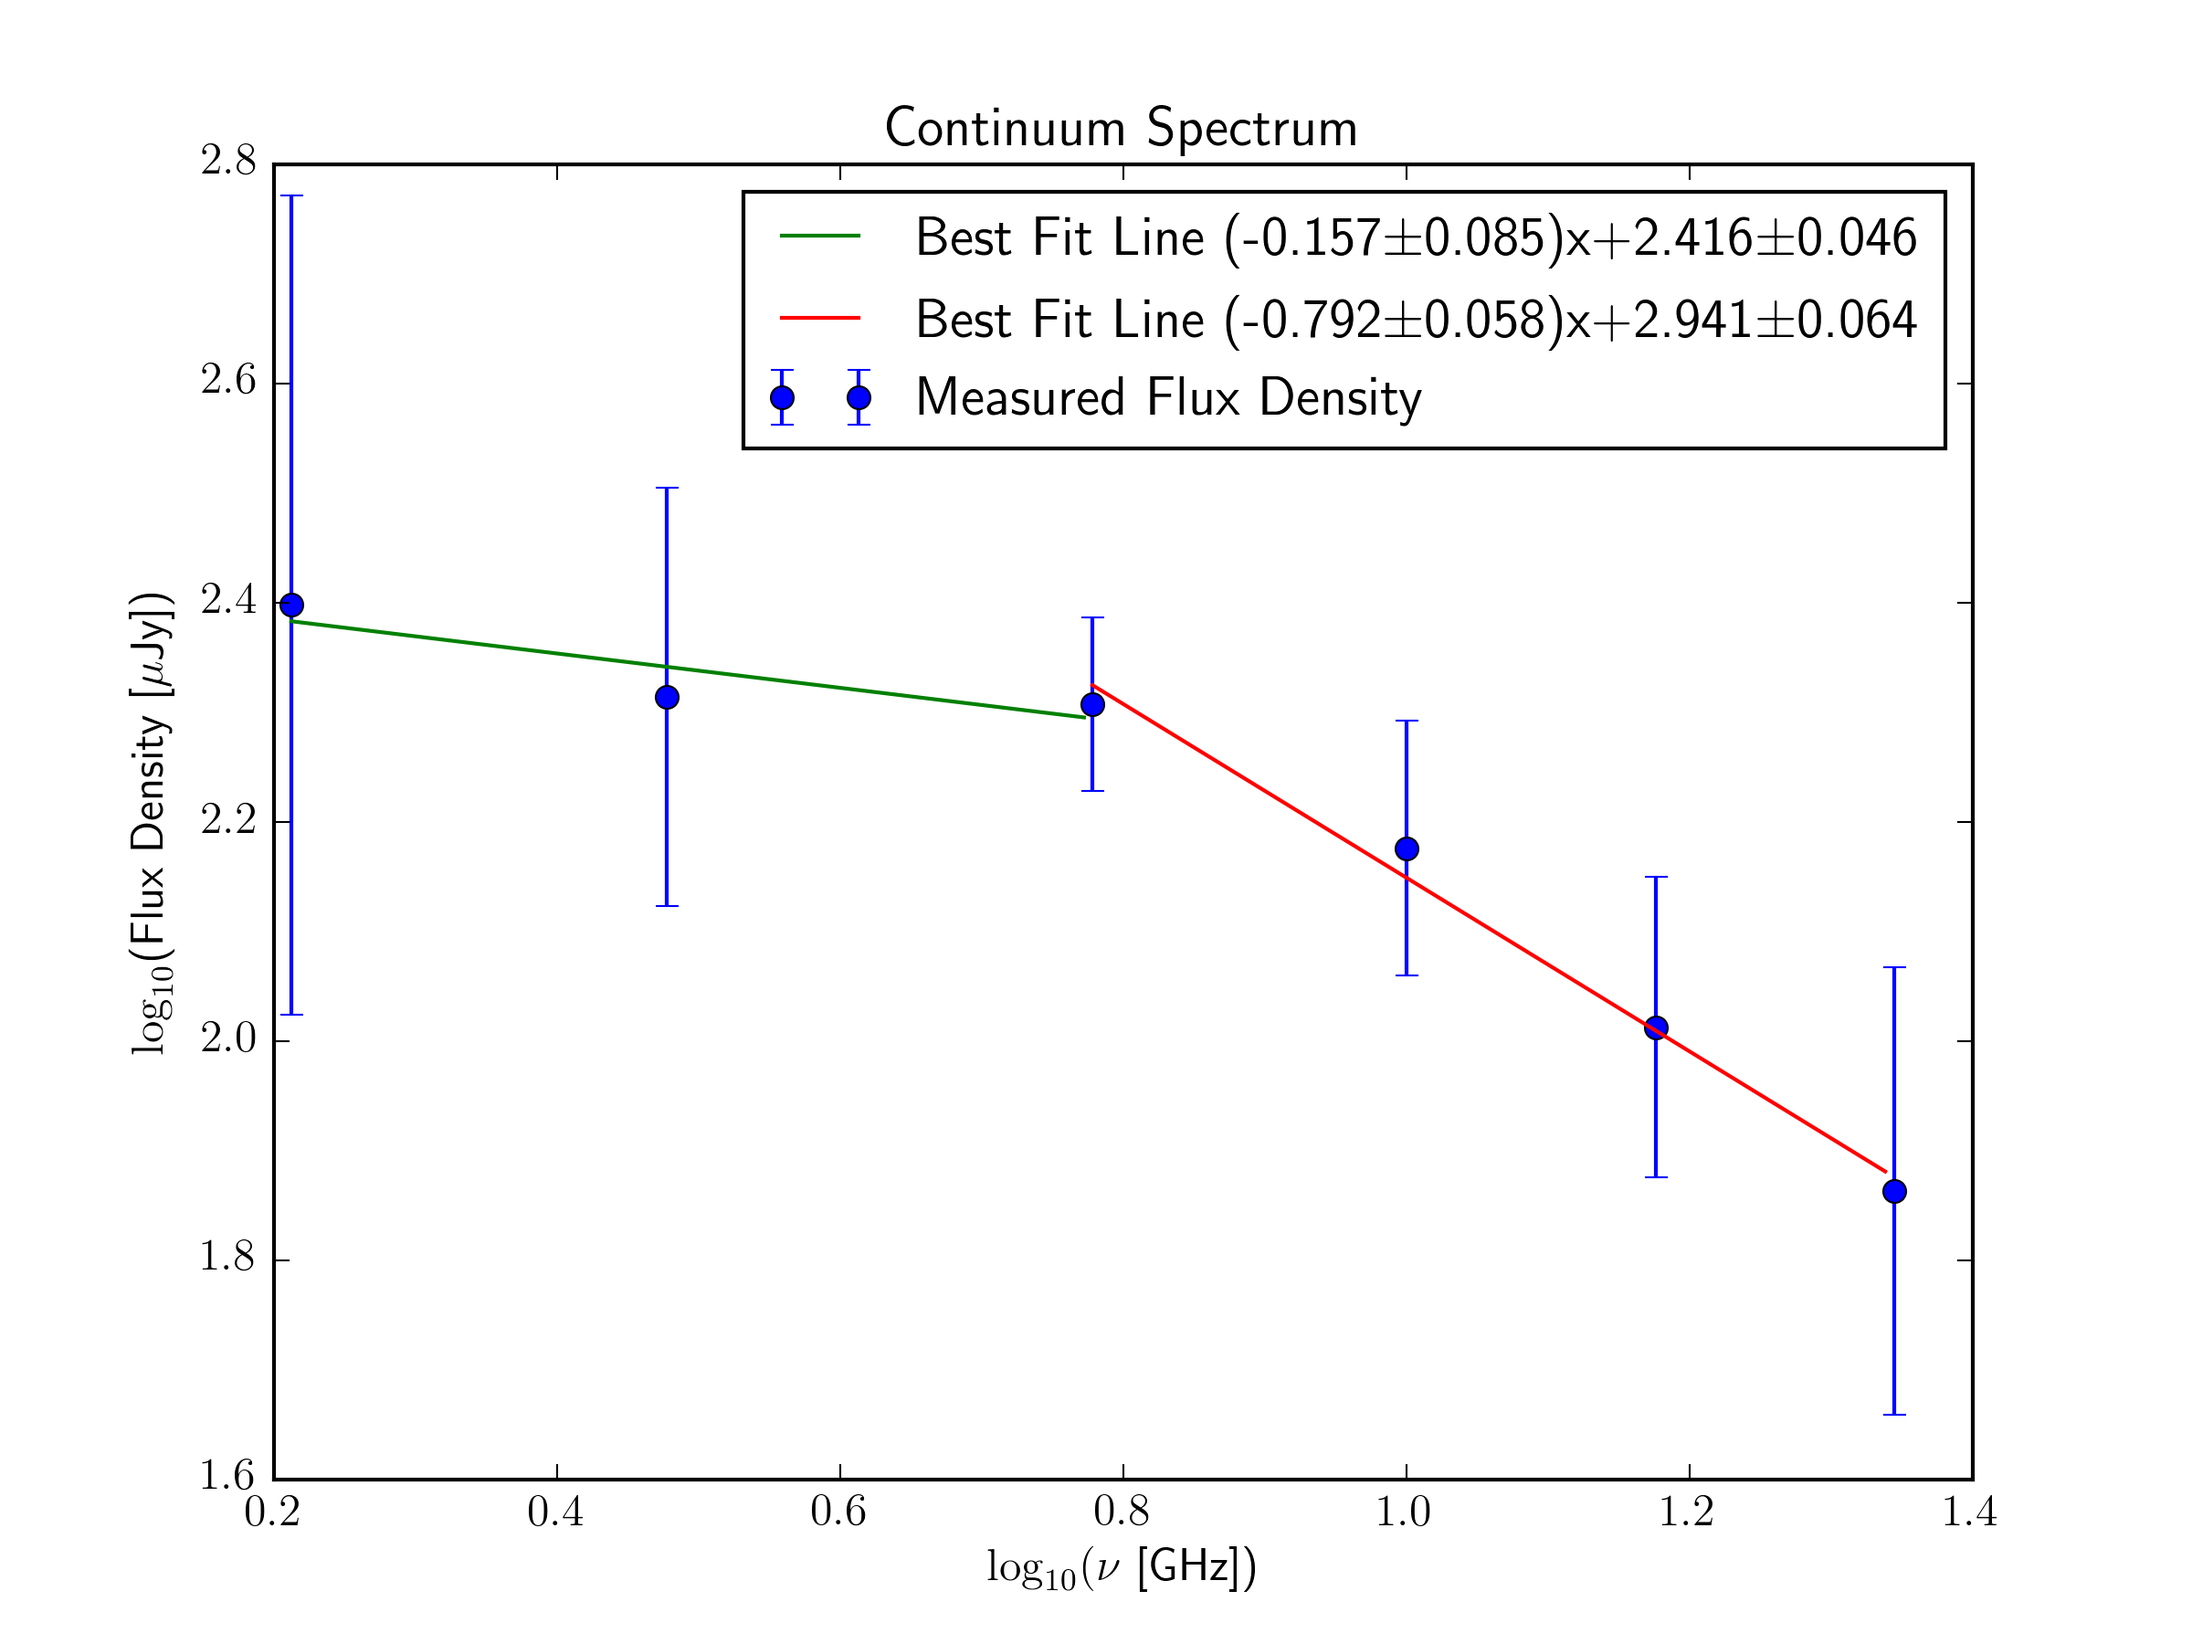
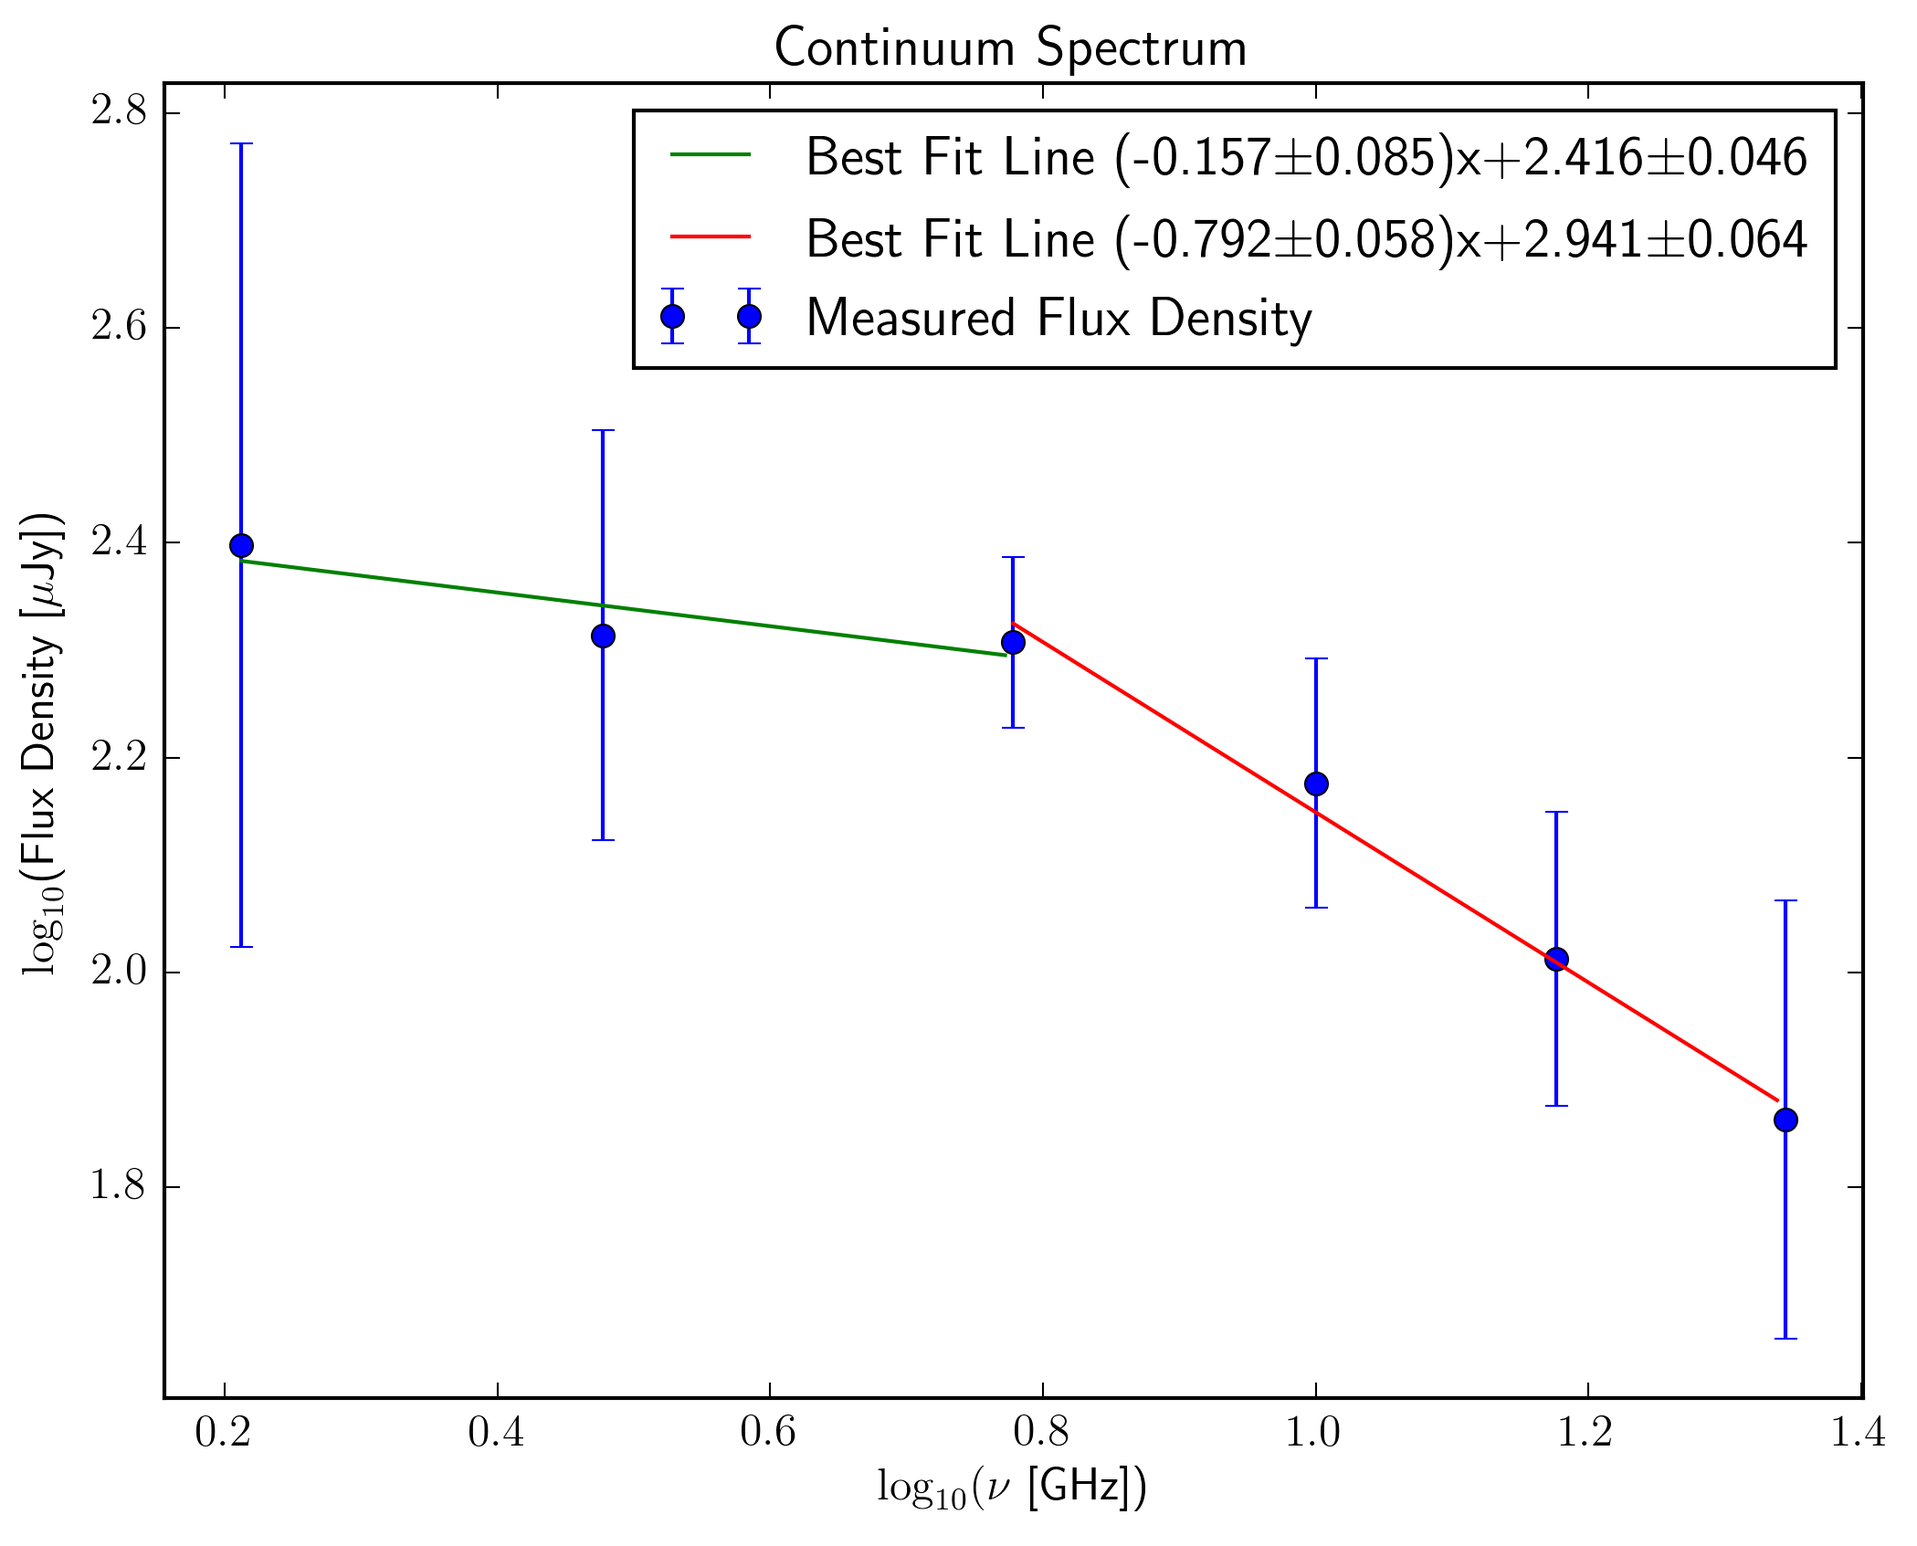
fixed margins

diff --git a/plotter.py b/plotter.py
@@ -54,7 +54,8 @@ ax1.set_title(r"Continuum Spectrum")
 ax1.set_xlabel(r"$\log_{10}(\nu$ [GHz])")
 ax1.set_ylabel(r"$\log_{10}$(Flux Density [$\mu$Jy])")
 ax1.legend(["Cubic Spline","Measured Flux Density"], loc='best')
-fig1.savefig('fluxVsFreq.png', dpi=300)#, bbox_inches='tight'
+ax1.margins(0.05)
+fig1.savefig('fluxVsFreq.png', dpi=300, bbox_inches='tight')
 #plt.legend()
 #plt.show()
 
@@ -66,7 +67,8 @@ ax2.set_title(r"Spectral index as a function of frequency")
 ax2.set_xlabel(r"$\log_{10}(\nu$ [GHz])")
 ax2.set_ylabel(r"$\alpha$")
 ax2.legend(["Derivative of Cubic Spline"], loc='best')
-fig2.savefig('spectral index.png', dpi=300)#,  bbox_inches='tight')
+ax2.margins(0.05)
+fig2.savefig('spectral index.png', dpi=300,  bbox_inches='tight')
 
 fig3 = plt.figure()#plot fluxes
 ax3 = fig3.add_subplot(111)
@@ -80,6 +82,7 @@ ax3.set_title(r"Continuum Spectrum")
 ax3.set_xlabel(r"$\log_{10}(\nu$ [GHz])")
 ax3.set_ylabel(r"$\log_{10}$(Flux Density [$\mu$Jy])")
 ax3.legend([r"Best Fit Line ({0:.3f}$\pm${1:.3f})x+{2:.3f}$\pm${3:.3f}".format(popt1[0],perr1[0],popt1[1],perr1[1]),"Best Fit Line ({0:.3f}$\pm${1:.3f})x+{2:.3f}$\pm${3:.3f}".format(popt2[0],perr2[0],popt2[1],perr2[1]),"Measured Flux Density"], loc='best')
-fig3.savefig('fluxVsFreqLineFit.png', dpi=300)#, bbox_inches='tight'
+ax3.margins(0.05)
+fig3.savefig('fluxVsFreqLineFit.png', dpi=300, bbox_inches='tight')
 
 plt.show()
